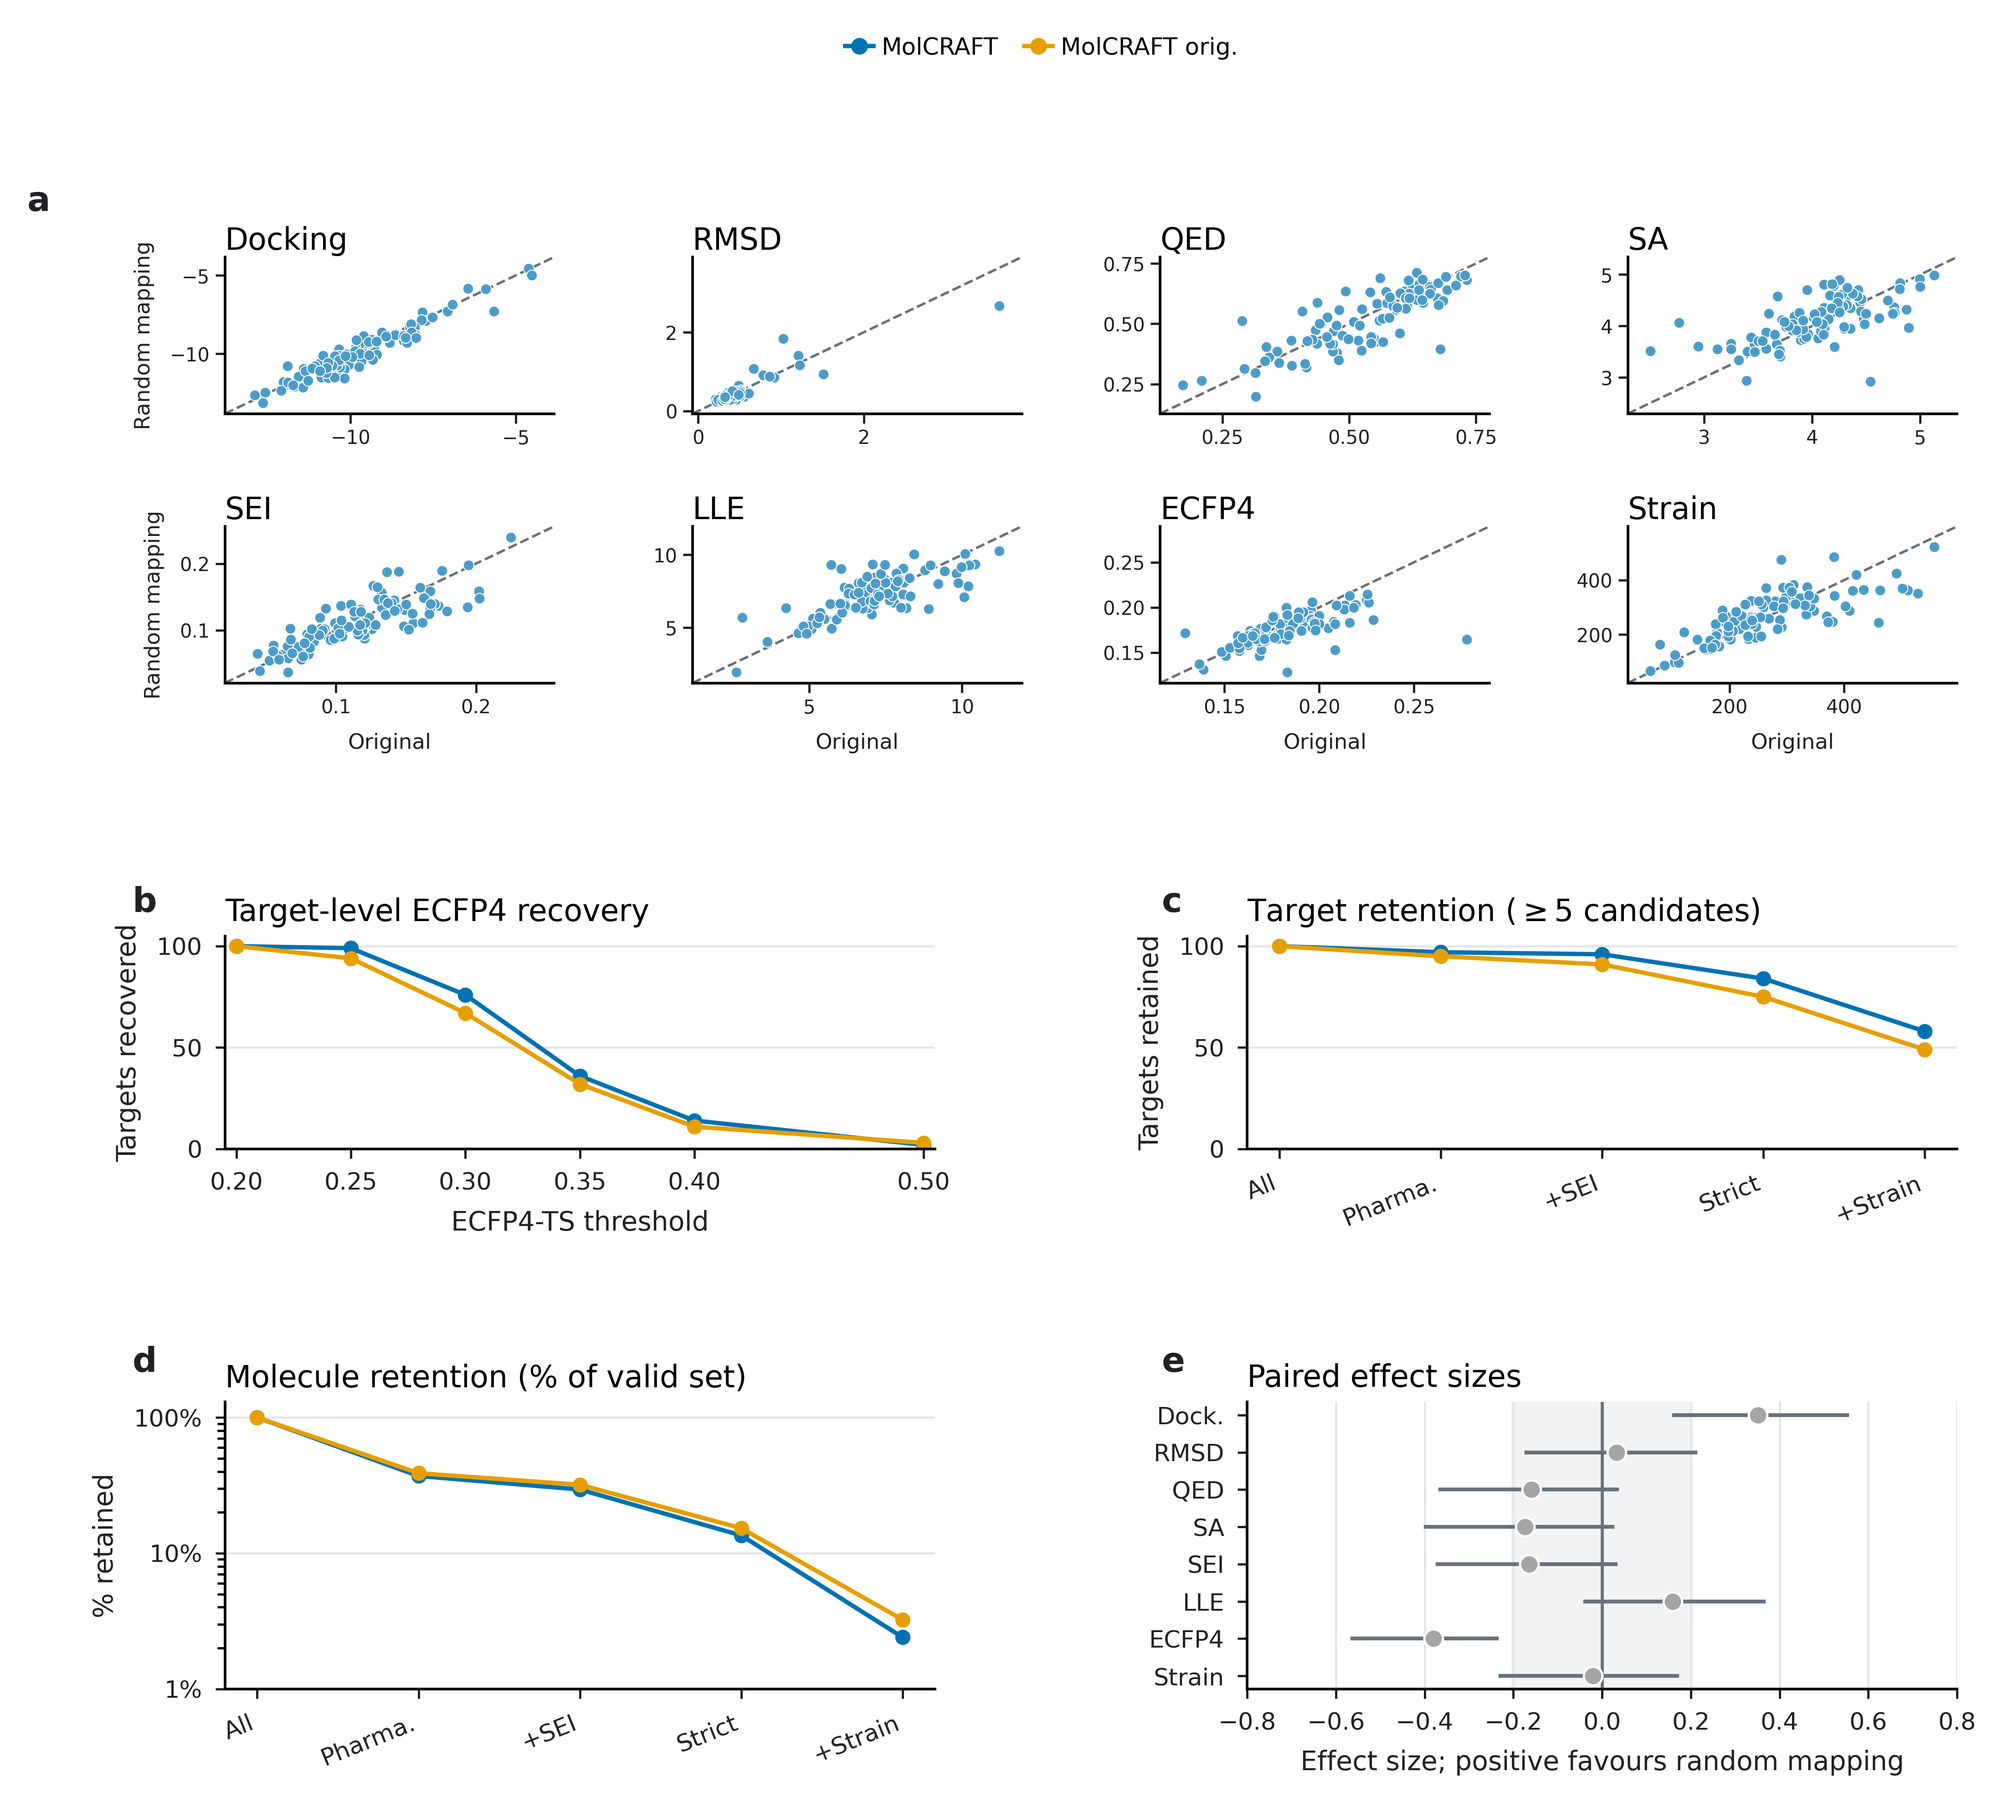
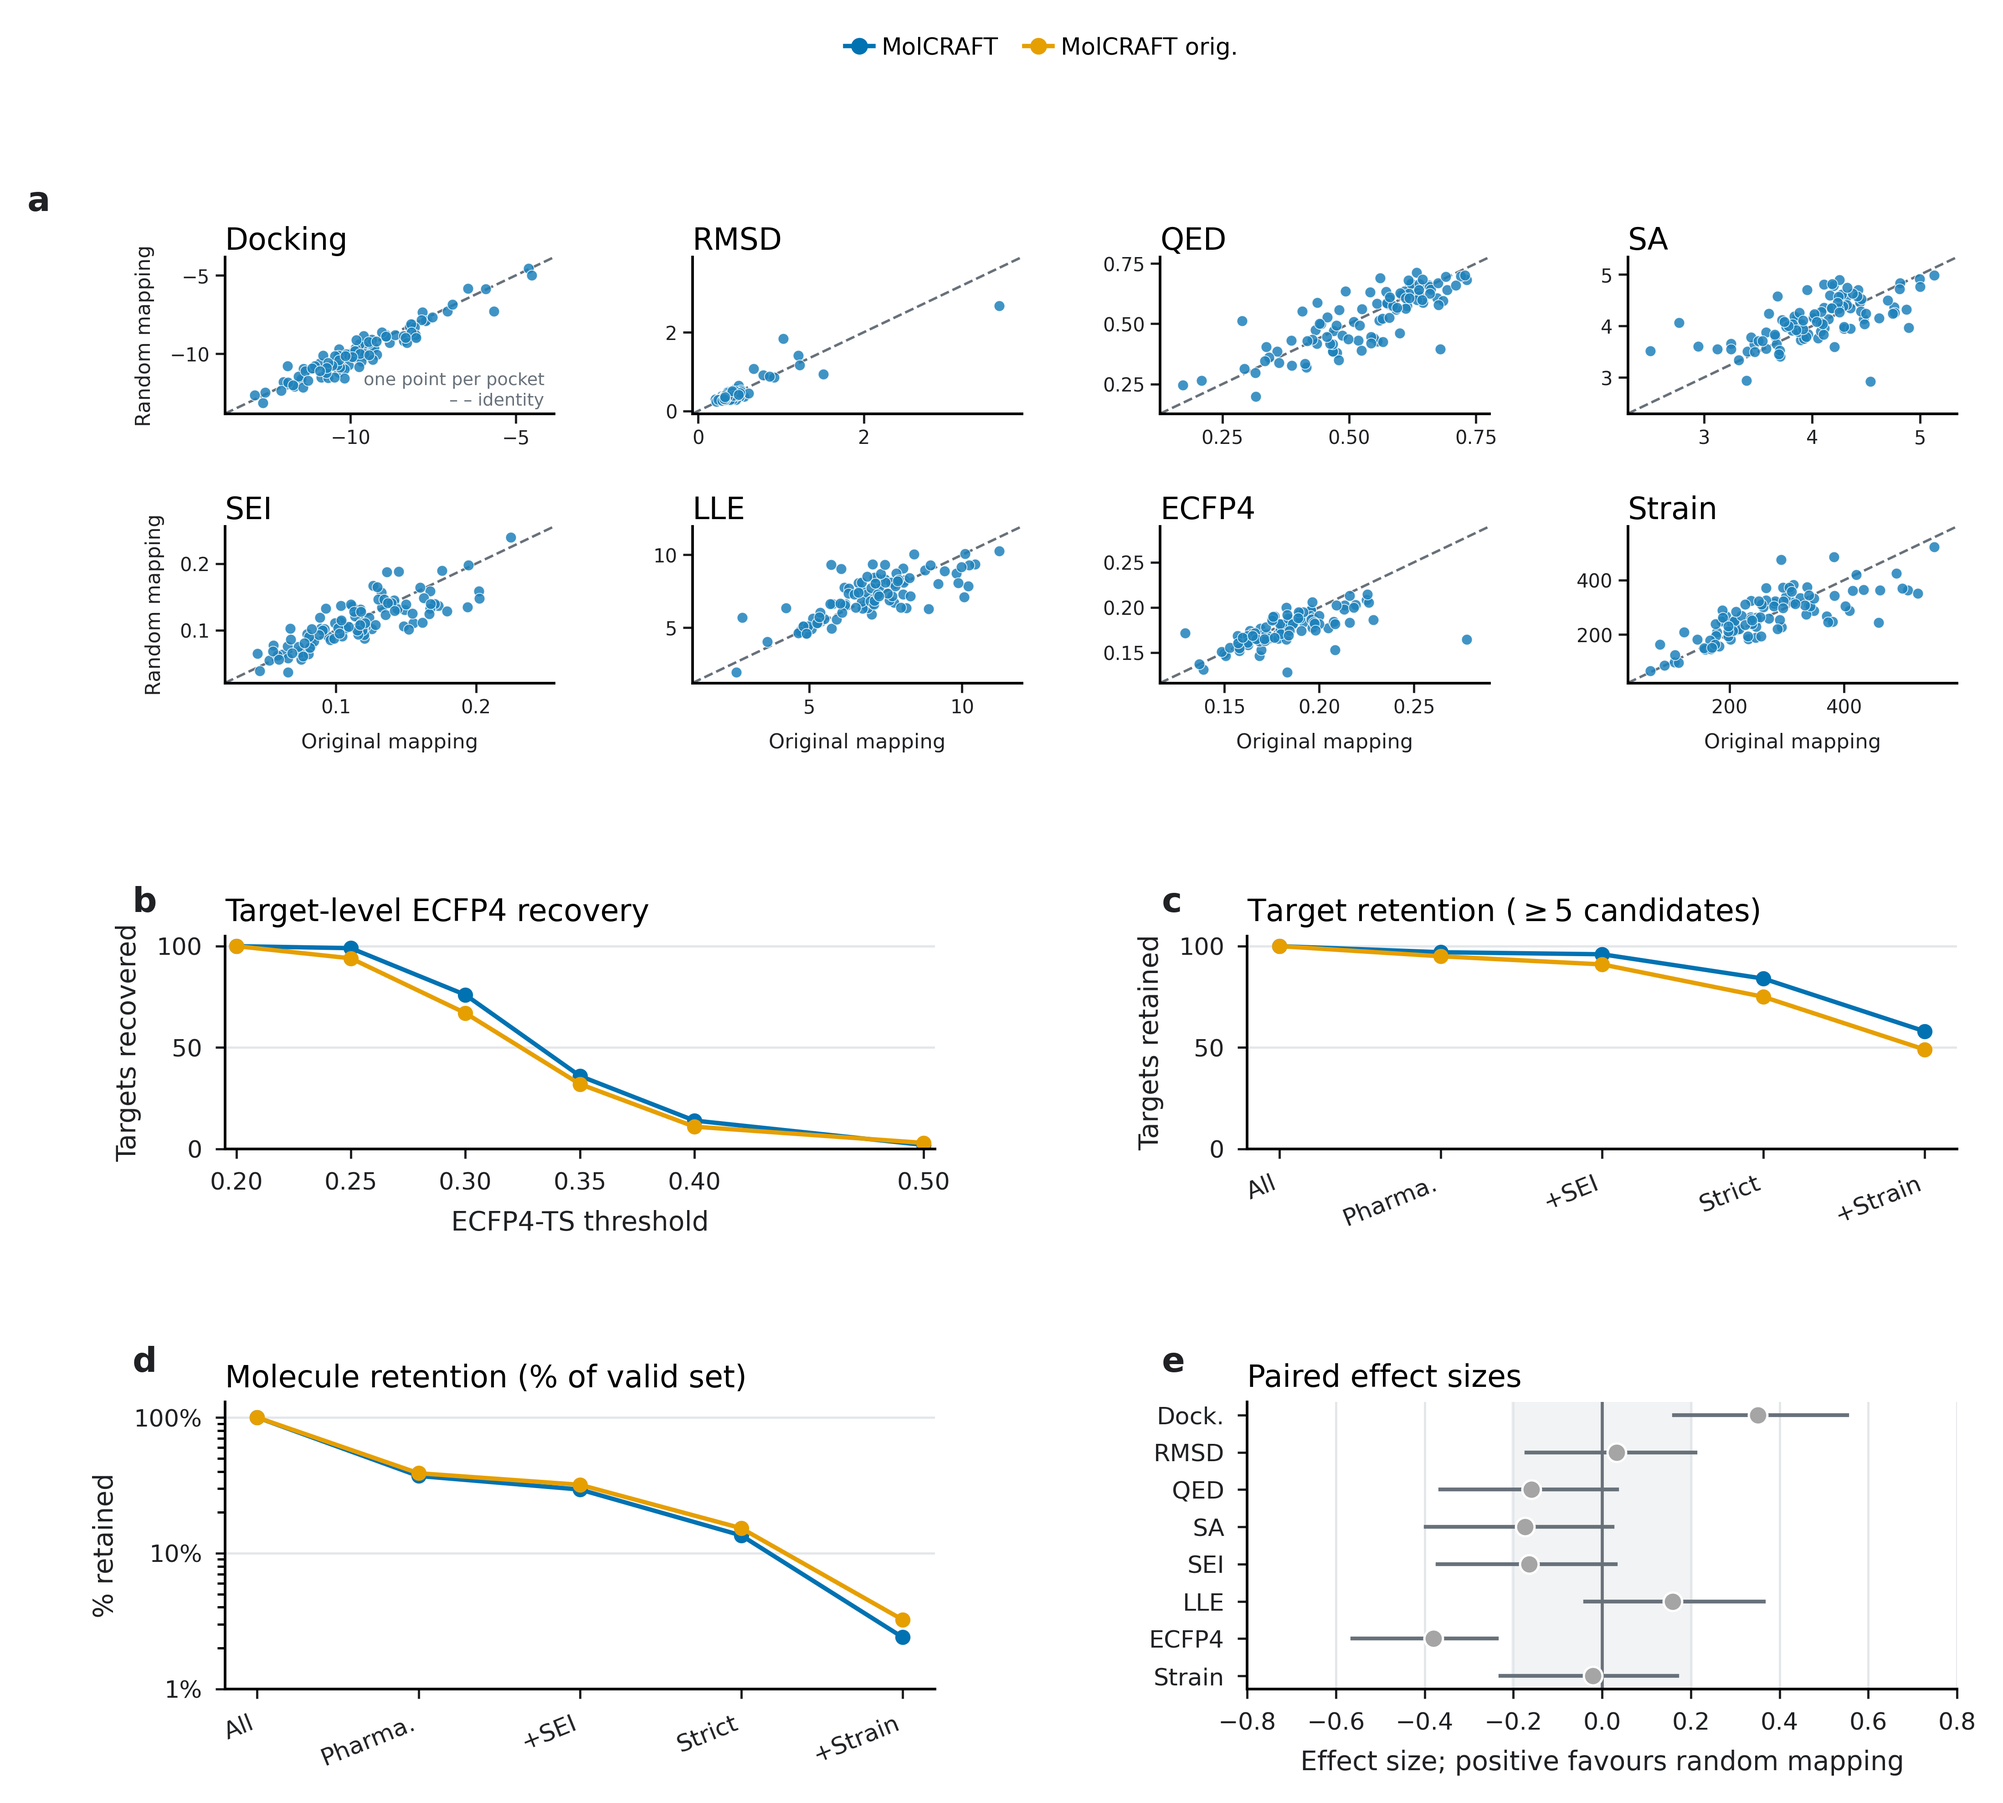
sfig2: make panel a legible on its own
Panel a is a paired scatter (x original residue mapping, y random mapping, one point per
target) and does not follow the two-series line encoding that the figure legend describes,
so neither legend entry covered it. Three fixes:

- the points were lightened 30% towards white, which matched neither legend colour and lost
  contrast in the dense lower-left region; now lightened 12% with alpha 0.85
- the diagonal was unlabelled, so nothing said it was the identity line
- the axis labels read only "Original"/"Random mapping"; now "Original mapping"

Added a compact key inside the first sub-panel, where the lower-right corner is empty:
"one point per pocket / - -  identity". A bullet glyph was tried first and read as a data
point, so the text stands alone.

diff --git a/analysis/sfig2_mapping_control.py b/analysis/sfig2_mapping_control.py
@@ -206,7 +206,7 @@ def write_source_tables(tables: dict[str, pd.DataFrame], effects: pd.DataFrame) 
 
 def plot_target_medians(fig: plt.Figure, spec, target_medians: pd.DataFrame) -> None:
     subgs = spec.subgridspec(2, 4, wspace=0.42, hspace=0.72)
-    point_color = lighten(SI_COLORS["MolCRAFT"], 0.30)
+    point_color = lighten(SI_COLORS["MolCRAFT"], 0.12)
     for idx, (metric, label) in enumerate(RAW_METRICS):
         ax = fig.add_subplot(subgs[idx // 4, idx % 4])
         sub = target_medians[target_medians["metric"] == metric]
@@ -226,8 +226,9 @@ def plot_target_medians(fig: plt.Figure, spec, target_medians: pd.DataFrame) -> 
             y,
             s=8,
             color=point_color,
+            alpha=0.85,
             edgecolor="white",
-            linewidth=0.25,
+            linewidth=0.2,
             zorder=2,
         )
         ax.set_xlim(limits)
@@ -235,12 +236,21 @@ def plot_target_medians(fig: plt.Figure, spec, target_medians: pd.DataFrame) -> 
         ax.set_title(label, loc="left", pad=2)
         ax.locator_params(axis="both", nbins=3)
         ax.tick_params(labelsize=5.0, pad=1.5)
-        ax.set_ylabel("Random mapping" if idx % 4 == 0 else "", fontsize=5.6)
-        ax.set_xlabel("Original" if idx >= 4 else "", fontsize=5.6)
+        ax.set_ylabel("Random mapping" if idx % 4 == 0 else "", fontsize=5.4)
+        ax.set_xlabel("Original mapping" if idx >= 4 else "", fontsize=5.4)
         style_axis(ax, grid_axis=None)
         if idx == 0:
             panel_label(ax, "a", x=-0.60, y=1.25)
 
+    # panel a is a paired scatter, so the two legend entries (which describe the line panels)
+    # do not cover it; state what a point is and what the diagonal means
+    # panel a is a paired scatter, so the two legend entries (which describe the line
+    # panels) do not cover it. State what a point is and what the diagonal means, in the
+    # first sub-panel where the lower-right corner is empty.
+    key_ax = fig.axes[-8]
+    key_ax.text(0.97, 0.03, "one point per pocket\n\u2013 \u2013 identity",
+                transform=key_ax.transAxes, ha="right", va="bottom",
+                fontsize=4.6, color=MUTED, linespacing=1.3)
 
 
 def plot_ecfp4(ax: plt.Axes, ecfp4: pd.DataFrame) -> None:
